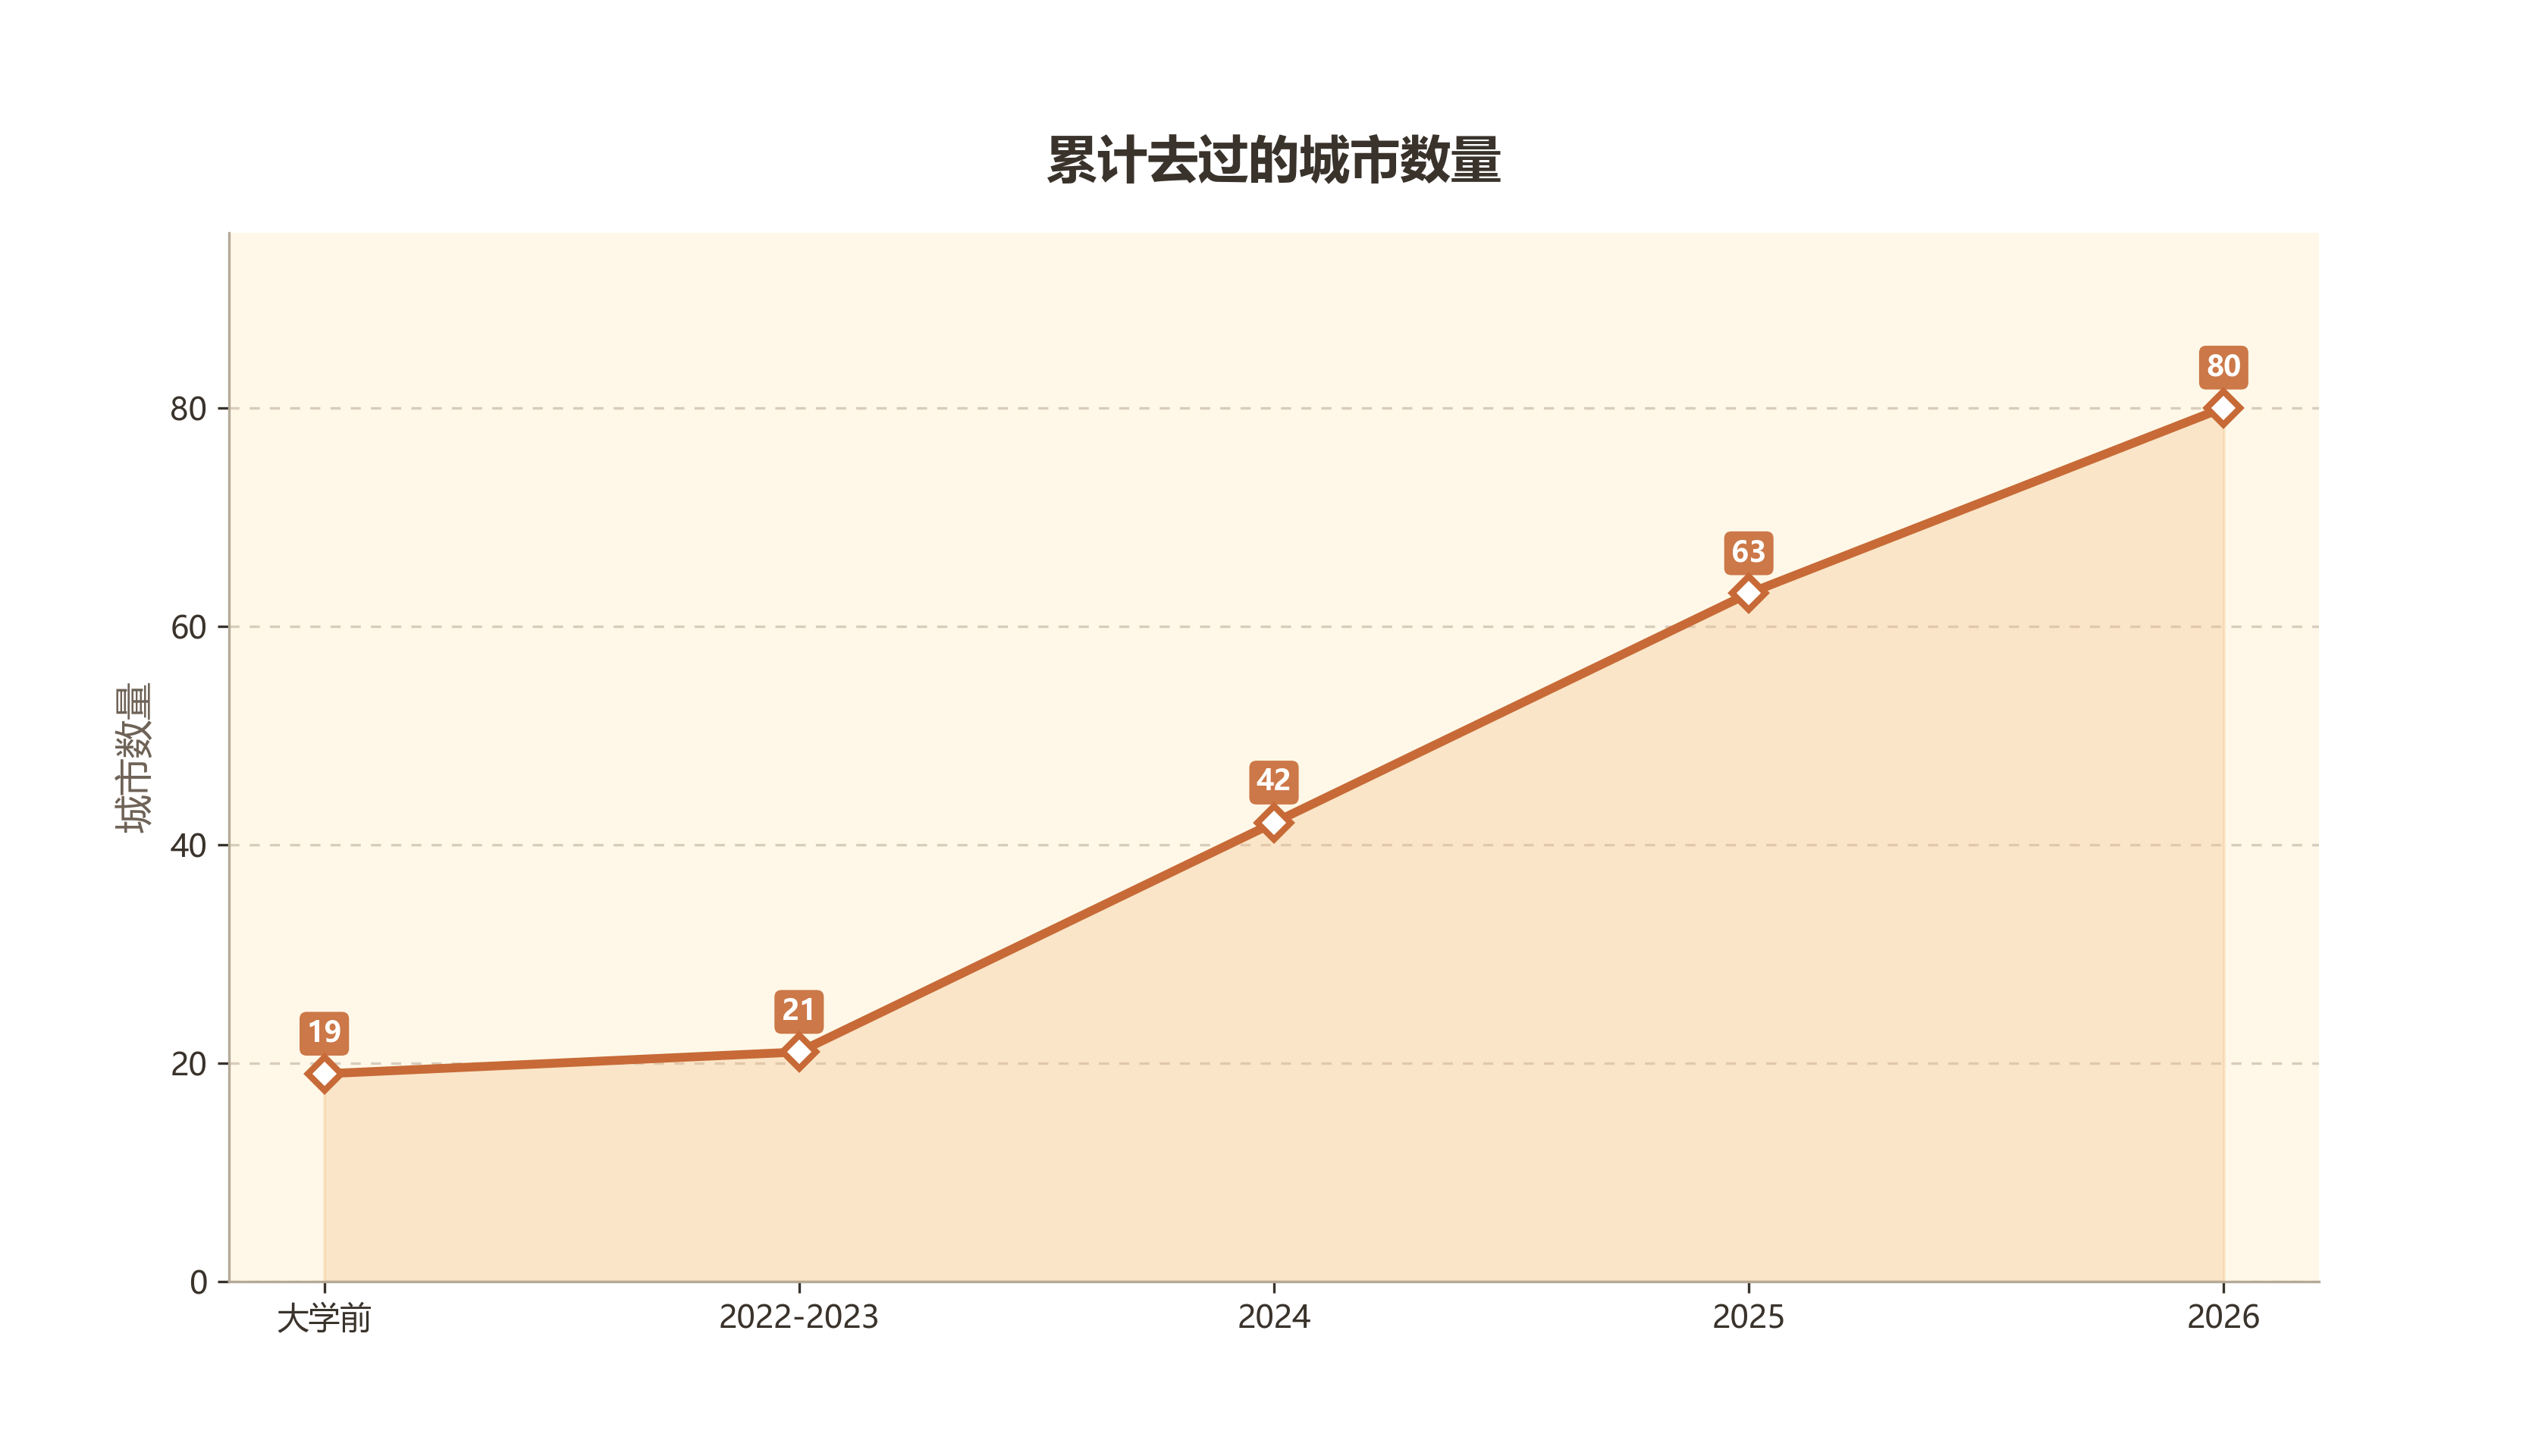
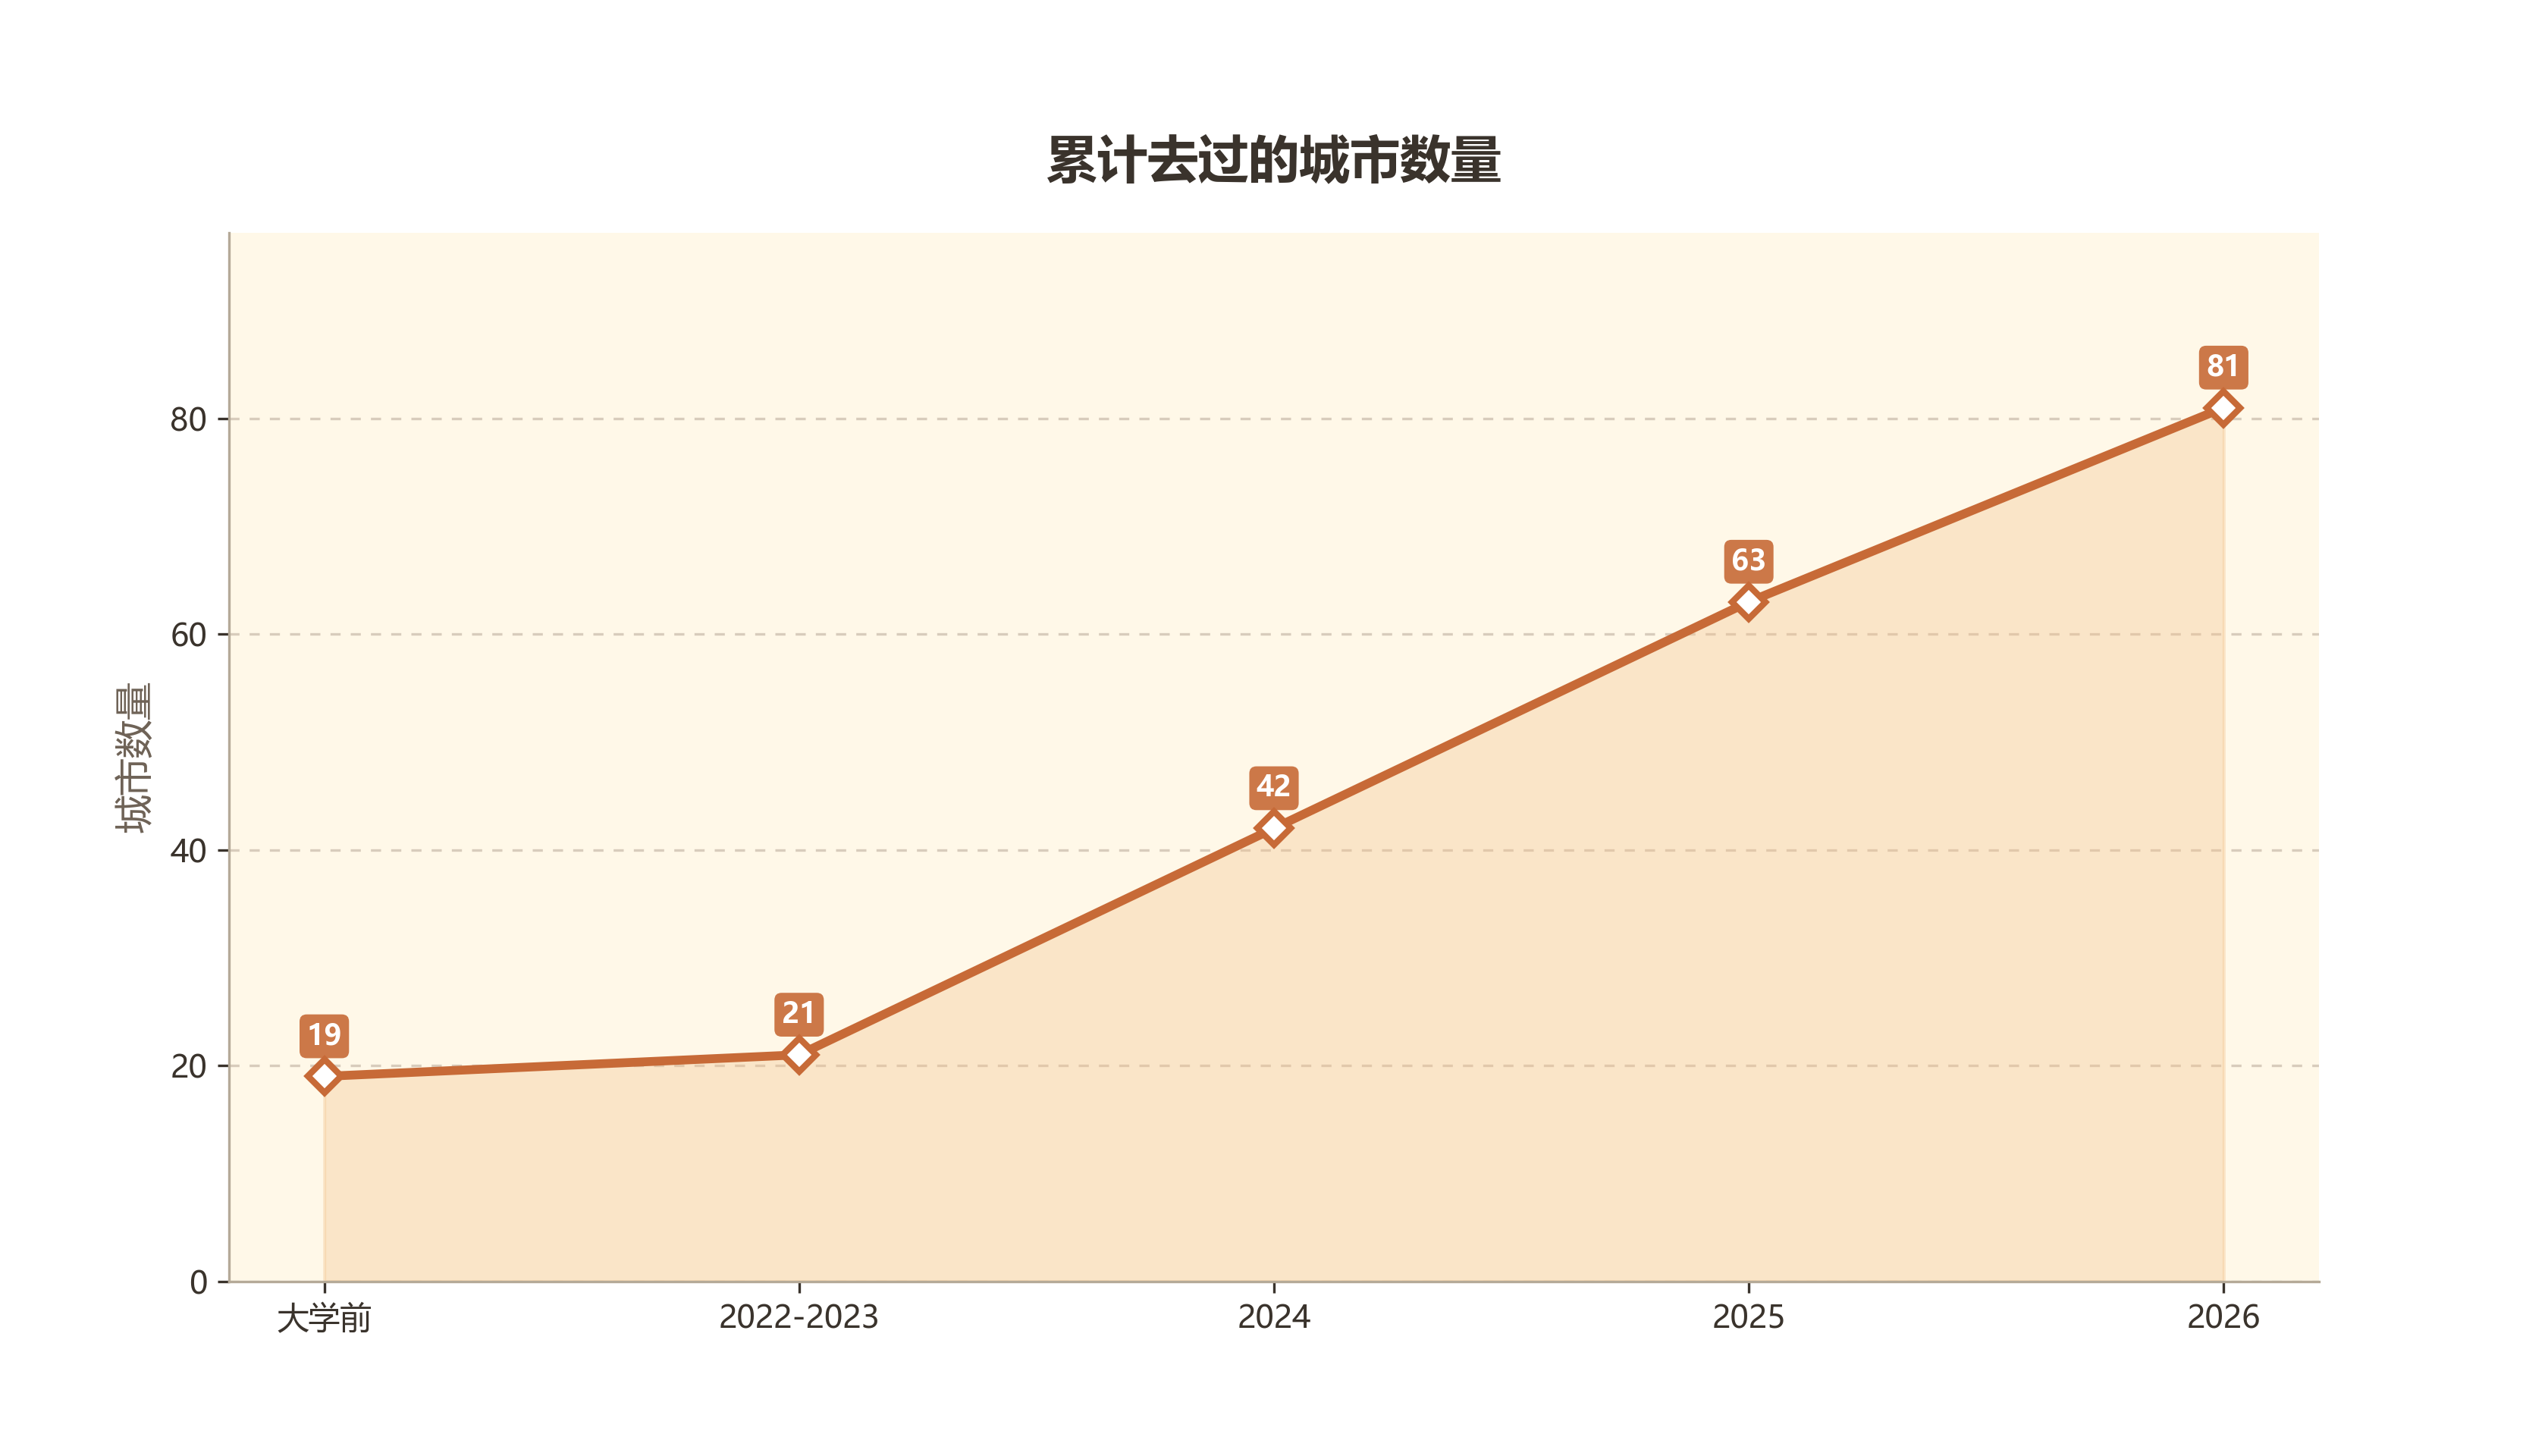
commit

diff --git a/draw.py b/draw.py
@@ -40,8 +40,8 @@ TOP_MARGIN = 0.84
 
 CITY_DATA = {
     "years": ["大学前", "2022-2023", "2024", "2025", "2026"],
-    "new_cities": [19, 2, 21, 21, 17],
-    "cumulative_cities": [19, 21, 42, 63, 80],
+    "new_cities": [19, 2, 21, 21, 18],
+    "cumulative_cities": [19, 21, 42, 63, 81],
 }
 
 

diff --git a/文章统计.md b/文章统计.md
@@ -1,12 +1,12 @@
 # 文章字数统计（游记 + 指定文章）
 
-统计时间： 2026-05-31 21:22:21
+统计时间： 2026-06-02 23:06:14
 
 ## 总体统计
 
 - 文章总数： 29 篇
-- 总字数： 122.8k (122761 字)
-- 平均字数： 4233 字/篇
+- 总字数： 123.0k (122961 字)
+- 平均字数： 4240 字/篇
 
 ## 按发表年份统计
 
@@ -16,7 +16,7 @@
 | 2023 | 1 | 13000 | 13000 |
 | 2024 | 11 | 37261 | 3387 |
 | 2025 | 12 | 51900 | 4325 |
-| 2026 | 4 | 14500 | 3625 |
+| 2026 | 4 | 14700 | 3675 |
 
 ## 文章详情
 
@@ -35,12 +35,12 @@
 | 11 | “人生短短几个秋啊，不醉不罢休”——在洛阳、郑州的中秋 | 4k | 2024-09-19 | 2026-05-10 | [查看文章](https://kangaroogao.com/posts/4186/) |
 | 12 | 潮汕初探 | 1.2k | 2024-09-20 | 2026-05-10 | [查看文章](https://kangaroogao.com/posts/52b1/) |
 | 13 | 今古一相接，长歌怀旧游：国庆出游杂记 | 4.7k | 2024-10-07 | 2026-05-10 | [查看文章](https://kangaroogao.com/posts/786/) |
-| 14 | 行旅杂记 | 7.1k | 2024-11-15 | 2026-05-30 | [查看文章](https://kangaroogao.com/posts/9e84/) |
+| 14 | 行旅杂记 | 7.1k | 2024-11-15 | 2026-06-02 | [查看文章](https://kangaroogao.com/posts/9e84/) |
 | 15 | 清明游记：枣庄、徐州、淮北 | 6.3k | 2025-04-10 | 2026-05-23 | [查看文章](https://kangaroogao.com/posts/b857/) |
 | 16 | 小城小记1：六安 | 1.5k | 2025-06-24 | 2026-05-23 | [查看文章](https://kangaroogao.com/posts/83be/) |
 | 17 | 北京行迹 | 10.1k | 2025-08-01 | 2026-05-23 | [查看文章](https://kangaroogao.com/posts/1502/) |
-| 18 | 回家路上2：泾县、福州、龙岩、赣州 | 10.5k | 2025-08-06 | 2026-05-23 | [查看文章](https://kangaroogao.com/posts/99aa/) |
-| 19 | 保研夏令营期间的行走 | 1.9k | 2025-08-06 | 2026-05-23 | [查看文章](https://kangaroogao.com/posts/3321/) |
+| 18 | 保研夏令营期间的行走 | 1.9k | 2025-08-06 | 2026-05-23 | [查看文章](https://kangaroogao.com/posts/3321/) |
+| 19 | 回家路上2：泾县、福州、龙岩、赣州 | 10.5k | 2025-08-06 | 2026-05-23 | [查看文章](https://kangaroogao.com/posts/99aa/) |
 | 20 | 2025年寒假行记 | 2.5k | 2025-08-06 | 2026-05-23 | [查看文章](https://kangaroogao.com/posts/8e50/) |
 | 21 | 湛江碎影 | 2.7k | 2025-08-24 | 2026-05-10 | [查看文章](https://kangaroogao.com/posts/a7ec/) |
 | 22 | 小城小记2：滁州、马鞍山 | 3.1k | 2025-09-15 | 2026-05-10 | [查看文章](https://kangaroogao.com/posts/cea0/) |
@@ -48,8 +48,8 @@
 | 24 | 天津初探 | 2.1k | 2025-11-23 | 2026-05-23 | [查看文章](https://kangaroogao.com/posts/ec8e/) |
 | 25 | 雄安印象 | 1k | 2025-12-10 | 2026-05-23 | [查看文章](https://kangaroogao.com/posts/674c/) |
 | 26 | 访山海关 | 2.5k | 2026-01-16 | 2026-05-10 | [查看文章](https://kangaroogao.com/posts/7171/) |
-| 27 | 小城小记4：新乡 | 1.3k | 2026-01-16 | 2026-05-10 | [查看文章](https://kangaroogao.com/posts/2661/) |
-| 28 | 回家路上3：永州、柳州、来宾、贵港、玉林 | 8.1k | 2026-02-12 | 2026-05-23 | [查看文章](https://kangaroogao.com/posts/526f/) |
+| 27 | 小城小记4：新乡 | 1.4k | 2026-01-16 | 2026-05-31 | [查看文章](https://kangaroogao.com/posts/2661/) |
+| 28 | 回家路上3：永州、柳州、来宾、贵港、玉林 | 8.2k | 2026-02-12 | 2026-05-31 | [查看文章](https://kangaroogao.com/posts/526f/) |
 | 29 | 心事浩茫连广宇：酒泉访学，兼记嘉峪关 | 2.6k | 2026-04-20 | 2026-05-26 | [查看文章](https://kangaroogao.com/posts/c975/) |
 
 ## 字数分布
@@ -68,7 +68,7 @@
 | 2 | 雄安印象 | 1k | 2025-12-10 | 2026-05-23 | [查看文章](https://kangaroogao.com/posts/674c/) |
 | 3 | 潮汕初探 | 1.2k | 2024-09-20 | 2026-05-10 | [查看文章](https://kangaroogao.com/posts/52b1/) |
 | 4 | 武汉岳阳行记 | 1.2k | 2024-03-03 | 2026-05-23 | [查看文章](https://kangaroogao.com/posts/6385/) |
-| 5 | 小城小记4：新乡 | 1.3k | 2026-01-16 | 2026-05-10 | [查看文章](https://kangaroogao.com/posts/2661/) |
+| 5 | 小城小记4：新乡 | 1.4k | 2026-01-16 | 2026-05-31 | [查看文章](https://kangaroogao.com/posts/2661/) |
 | 6 | 小城小记1：六安 | 1.5k | 2025-06-24 | 2026-05-23 | [查看文章](https://kangaroogao.com/posts/83be/) |
 | 7 | 保研夏令营期间的行走 | 1.9k | 2025-08-06 | 2026-05-23 | [查看文章](https://kangaroogao.com/posts/3321/) |
 | 8 | 黄山西递行记 | 1.9k | 2024-03-10 | 2026-05-10 | [查看文章](https://kangaroogao.com/posts/e08f/) |
@@ -87,9 +87,9 @@
 | 21 | 长安一片月，吹梦到西洲：西安一游，兼记咸阳运城 | 5.4k | 2024-07-15 | 2026-05-10 | [查看文章](https://kangaroogao.com/posts/439b/) |
 | 22 | 雷州，雷州 | 6.1k | 2020-08-22 | 2026-05-14 | [查看文章](https://kangaroogao.com/posts/4cde/) |
 | 23 | 清明游记：枣庄、徐州、淮北 | 6.3k | 2025-04-10 | 2026-05-23 | [查看文章](https://kangaroogao.com/posts/b857/) |
-| 24 | 行旅杂记 | 7.1k | 2024-11-15 | 2026-05-30 | [查看文章](https://kangaroogao.com/posts/9e84/) |
+| 24 | 行旅杂记 | 7.1k | 2024-11-15 | 2026-06-02 | [查看文章](https://kangaroogao.com/posts/9e84/) |
 | 25 | 小城小记3：寿县、阜阳、周口、漯河、驻马店、信阳、孝感 | 7.4k | 2025-10-03 | 2026-05-19 | [查看文章](https://kangaroogao.com/posts/e4f4/) |
-| 26 | 回家路上3：永州、柳州、来宾、贵港、玉林 | 8.1k | 2026-02-12 | 2026-05-23 | [查看文章](https://kangaroogao.com/posts/526f/) |
+| 26 | 回家路上3：永州、柳州、来宾、贵港、玉林 | 8.2k | 2026-02-12 | 2026-05-31 | [查看文章](https://kangaroogao.com/posts/526f/) |
 | 27 | 北京行迹 | 10.1k | 2025-08-01 | 2026-05-23 | [查看文章](https://kangaroogao.com/posts/1502/) |
 | 28 | 回家路上2：泾县、福州、龙岩、赣州 | 10.5k | 2025-08-06 | 2026-05-23 | [查看文章](https://kangaroogao.com/posts/99aa/) |
 | 29 | 书的奇迹：我的阅读小史（大一下学期之前） | 13k | 2023-03-22 | 2026-05-10 | [查看文章](https://kangaroogao.com/posts/d4b0/) |

diff --git a/游记统计.md b/游记统计.md
@@ -1,12 +1,12 @@
 # 游记类别字数统计
 
-统计时间： 2026-05-31 21:22:12
+统计时间： 2026-06-02 23:06:08
 
 ## 总体统计
 
 - 文章总数： 25 篇
-- 总字数： 97.5k (97461 字)
-- 平均字数： 3898 字/篇
+- 总字数： 97.7k (97661 字)
+- 平均字数： 3906 字/篇
 
 ## 按发表年份统计
 
@@ -14,7 +14,7 @@
 |------|------|--------|----------|
 | 2024 | 10 | 33861 | 3386 |
 | 2025 | 11 | 49100 | 4463 |
-| 2026 | 4 | 14500 | 3625 |
+| 2026 | 4 | 14700 | 3675 |
 
 ## 文章详情
 
@@ -29,12 +29,12 @@
 | 7 | “人生短短几个秋啊，不醉不罢休”——在洛阳、郑州的中秋 | 4k | 2024-09-19 | 2026-05-10 | [查看文章](https://kangaroogao.com/posts/4186/) |
 | 8 | 潮汕初探 | 1.2k | 2024-09-20 | 2026-05-10 | [查看文章](https://kangaroogao.com/posts/52b1/) |
 | 9 | 今古一相接，长歌怀旧游：国庆出游杂记 | 4.7k | 2024-10-07 | 2026-05-10 | [查看文章](https://kangaroogao.com/posts/786/) |
-| 10 | 行旅杂记 | 7.1k | 2024-11-15 | 2026-05-30 | [查看文章](https://kangaroogao.com/posts/9e84/) |
+| 10 | 行旅杂记 | 7.1k | 2024-11-15 | 2026-06-02 | [查看文章](https://kangaroogao.com/posts/9e84/) |
 | 11 | 清明游记：枣庄、徐州、淮北 | 6.3k | 2025-04-10 | 2026-05-23 | [查看文章](https://kangaroogao.com/posts/b857/) |
 | 12 | 小城小记1：六安 | 1.5k | 2025-06-24 | 2026-05-23 | [查看文章](https://kangaroogao.com/posts/83be/) |
 | 13 | 北京行迹 | 10.1k | 2025-08-01 | 2026-05-23 | [查看文章](https://kangaroogao.com/posts/1502/) |
-| 14 | 回家路上2：泾县、福州、龙岩、赣州 | 10.5k | 2025-08-06 | 2026-05-23 | [查看文章](https://kangaroogao.com/posts/99aa/) |
-| 15 | 保研夏令营期间的行走 | 1.9k | 2025-08-06 | 2026-05-23 | [查看文章](https://kangaroogao.com/posts/3321/) |
+| 14 | 保研夏令营期间的行走 | 1.9k | 2025-08-06 | 2026-05-23 | [查看文章](https://kangaroogao.com/posts/3321/) |
+| 15 | 回家路上2：泾县、福州、龙岩、赣州 | 10.5k | 2025-08-06 | 2026-05-23 | [查看文章](https://kangaroogao.com/posts/99aa/) |
 | 16 | 2025年寒假行记 | 2.5k | 2025-08-06 | 2026-05-23 | [查看文章](https://kangaroogao.com/posts/8e50/) |
 | 17 | 湛江碎影 | 2.7k | 2025-08-24 | 2026-05-10 | [查看文章](https://kangaroogao.com/posts/a7ec/) |
 | 18 | 小城小记2：滁州、马鞍山 | 3.1k | 2025-09-15 | 2026-05-10 | [查看文章](https://kangaroogao.com/posts/cea0/) |
@@ -42,8 +42,8 @@
 | 20 | 天津初探 | 2.1k | 2025-11-23 | 2026-05-23 | [查看文章](https://kangaroogao.com/posts/ec8e/) |
 | 21 | 雄安印象 | 1k | 2025-12-10 | 2026-05-23 | [查看文章](https://kangaroogao.com/posts/674c/) |
 | 22 | 访山海关 | 2.5k | 2026-01-16 | 2026-05-10 | [查看文章](https://kangaroogao.com/posts/7171/) |
-| 23 | 小城小记4：新乡 | 1.3k | 2026-01-16 | 2026-05-10 | [查看文章](https://kangaroogao.com/posts/2661/) |
-| 24 | 回家路上3：永州、柳州、来宾、贵港、玉林 | 8.1k | 2026-02-12 | 2026-05-23 | [查看文章](https://kangaroogao.com/posts/526f/) |
+| 23 | 小城小记4：新乡 | 1.4k | 2026-01-16 | 2026-05-31 | [查看文章](https://kangaroogao.com/posts/2661/) |
+| 24 | 回家路上3：永州、柳州、来宾、贵港、玉林 | 8.2k | 2026-02-12 | 2026-05-31 | [查看文章](https://kangaroogao.com/posts/526f/) |
 | 25 | 心事浩茫连广宇：酒泉访学，兼记嘉峪关 | 2.6k | 2026-04-20 | 2026-05-26 | [查看文章](https://kangaroogao.com/posts/c975/) |
 
 ## 字数分布
@@ -62,7 +62,7 @@
 | 2 | 雄安印象 | 1k | 2025-12-10 | 2026-05-23 | [查看文章](https://kangaroogao.com/posts/674c/) |
 | 3 | 潮汕初探 | 1.2k | 2024-09-20 | 2026-05-10 | [查看文章](https://kangaroogao.com/posts/52b1/) |
 | 4 | 武汉岳阳行记 | 1.2k | 2024-03-03 | 2026-05-23 | [查看文章](https://kangaroogao.com/posts/6385/) |
-| 5 | 小城小记4：新乡 | 1.3k | 2026-01-16 | 2026-05-10 | [查看文章](https://kangaroogao.com/posts/2661/) |
+| 5 | 小城小记4：新乡 | 1.4k | 2026-01-16 | 2026-05-31 | [查看文章](https://kangaroogao.com/posts/2661/) |
 | 6 | 小城小记1：六安 | 1.5k | 2025-06-24 | 2026-05-23 | [查看文章](https://kangaroogao.com/posts/83be/) |
 | 7 | 保研夏令营期间的行走 | 1.9k | 2025-08-06 | 2026-05-23 | [查看文章](https://kangaroogao.com/posts/3321/) |
 | 8 | 黄山西递行记 | 1.9k | 2024-03-10 | 2026-05-10 | [查看文章](https://kangaroogao.com/posts/e08f/) |
@@ -78,8 +78,8 @@
 | 18 | 江南江北送君归：从扬州到镇江 | 5k | 2024-05-04 | 2026-05-23 | [查看文章](https://kangaroogao.com/posts/8176/) |
 | 19 | 长安一片月，吹梦到西洲：西安一游，兼记咸阳运城 | 5.4k | 2024-07-15 | 2026-05-10 | [查看文章](https://kangaroogao.com/posts/439b/) |
 | 20 | 清明游记：枣庄、徐州、淮北 | 6.3k | 2025-04-10 | 2026-05-23 | [查看文章](https://kangaroogao.com/posts/b857/) |
-| 21 | 行旅杂记 | 7.1k | 2024-11-15 | 2026-05-30 | [查看文章](https://kangaroogao.com/posts/9e84/) |
+| 21 | 行旅杂记 | 7.1k | 2024-11-15 | 2026-06-02 | [查看文章](https://kangaroogao.com/posts/9e84/) |
 | 22 | 小城小记3：寿县、阜阳、周口、漯河、驻马店、信阳、孝感 | 7.4k | 2025-10-03 | 2026-05-19 | [查看文章](https://kangaroogao.com/posts/e4f4/) |
-| 23 | 回家路上3：永州、柳州、来宾、贵港、玉林 | 8.1k | 2026-02-12 | 2026-05-23 | [查看文章](https://kangaroogao.com/posts/526f/) |
+| 23 | 回家路上3：永州、柳州、来宾、贵港、玉林 | 8.2k | 2026-02-12 | 2026-05-31 | [查看文章](https://kangaroogao.com/posts/526f/) |
 | 24 | 北京行迹 | 10.1k | 2025-08-01 | 2026-05-23 | [查看文章](https://kangaroogao.com/posts/1502/) |
 | 25 | 回家路上2：泾县、福州、龙岩、赣州 | 10.5k | 2025-08-06 | 2026-05-23 | [查看文章](https://kangaroogao.com/posts/99aa/) |

diff --git a/source/_posts/行旅杂记.md b/source/_posts/行旅杂记.md
@@ -137,7 +137,7 @@ date: 2024-11-15 00:00:00
 
 以上各篇游记的简要行程安排已整理到了[《行程轨迹汇总》](../dbd5/)。
 
-至此，共计去过21个省级行政区，80个城市[^20]：
+至此，共计去过21个省级行政区，81个城市[^20]：
 - 省
   - 广东（15/21）：湛江、广州、茂名、东莞、河源、惠州、阳江、江门、佛山、中山、珠海、韶关、揭阳、潮州、深圳
   - 贵州（5/9）：贵阳、黔南、黔东南、安顺、铜仁
@@ -154,7 +154,7 @@ date: 2024-11-15 00:00:00
   - 福建（2/9）：福州、龙岩
   - 河北（2/11）：承德、保定、秦皇岛
   - 辽宁（1/14）：葫芦岛
-  - 甘肃（3/14）：嘉峪关、酒泉、天水
+  - 甘肃（4/14）：嘉峪关、酒泉、天水、定西
 - 直辖市
   - 北京、上海、天津
 - 自治区
@@ -291,8 +291,10 @@ date: 2024-11-15 00:00:00
 ||北京丰台|合肥|Z225|1032|
 ||合肥|天水|Z595|1216|
 |2026.6|天水|甘谷|K1041|67|
+||甘谷|武山|T133|40|
+||陇西|定西|K1041|84|
 
-- 小计：116次（普铁35次，高铁/动车81次），46679km（普铁16491km，高铁/动车30198km），108个车站，57个城市
+- 小计：118次（普铁37次，高铁/动车81次），46803km（普铁16605km，高铁/动车30198km），111个车站，58个城市
 
 <figure style="text-align: center;"> <img src="https://s3.bmp.ovh/2026/03/06/9R9EYm5h.jpg" alt="铁路线路" style="display: block; margin-left: auto; margin-right: auto;width: 100%;"></figure>
 
@@ -355,7 +357,8 @@ date: 2024-11-15 00:00:00
 |榆林|神木、府谷|
 |忻州|岢岚、宁武|
 |大同|大同、大同南|
-|天水|天水、甘谷|
+|天水|天水、甘谷、武山|
+|定西|定西|
 
 飞行记录如下[^19]：
 | 时间       | 出发地         | 目的地         | 航班号| 机型|里程（km） |

diff --git a/renew.md b/renew.md
@@ -815,3 +815,6 @@
 
 6.1
    1. 加甘谷
+
+6.2
+   1. 加武山、陇西、定西

diff --git a/读书笔记统计.md b/读书笔记统计.md
@@ -1,6 +1,6 @@
 # 读书笔记类别字数统计
 
-统计时间： 2026-05-31 21:22:29
+统计时间： 2026-06-02 23:06:21
 
 ## 总体统计
 